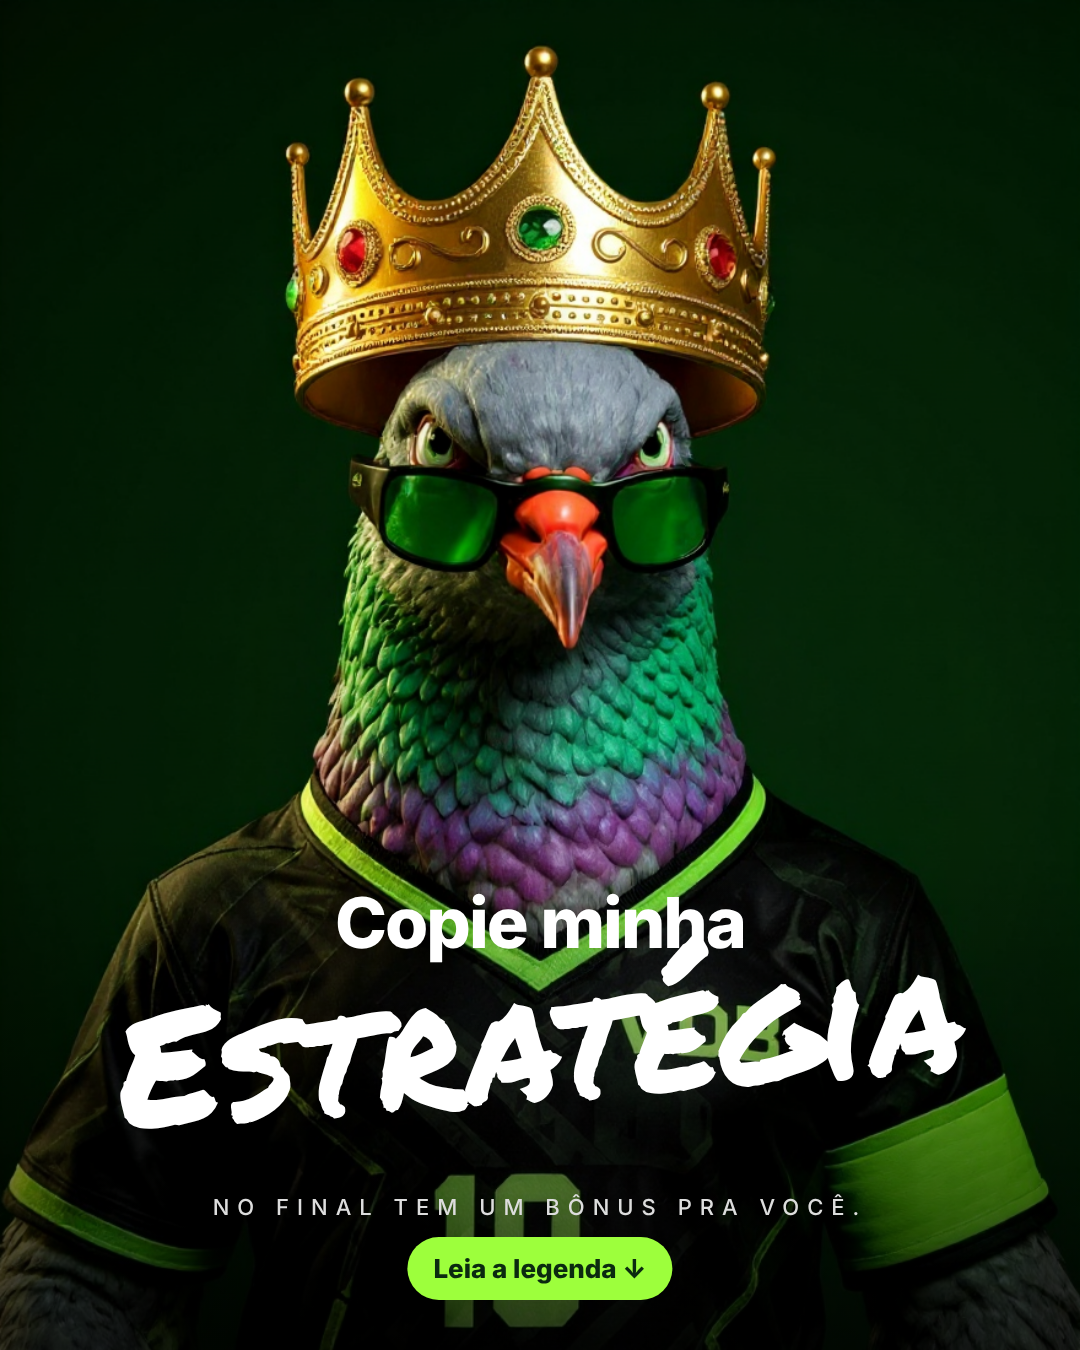
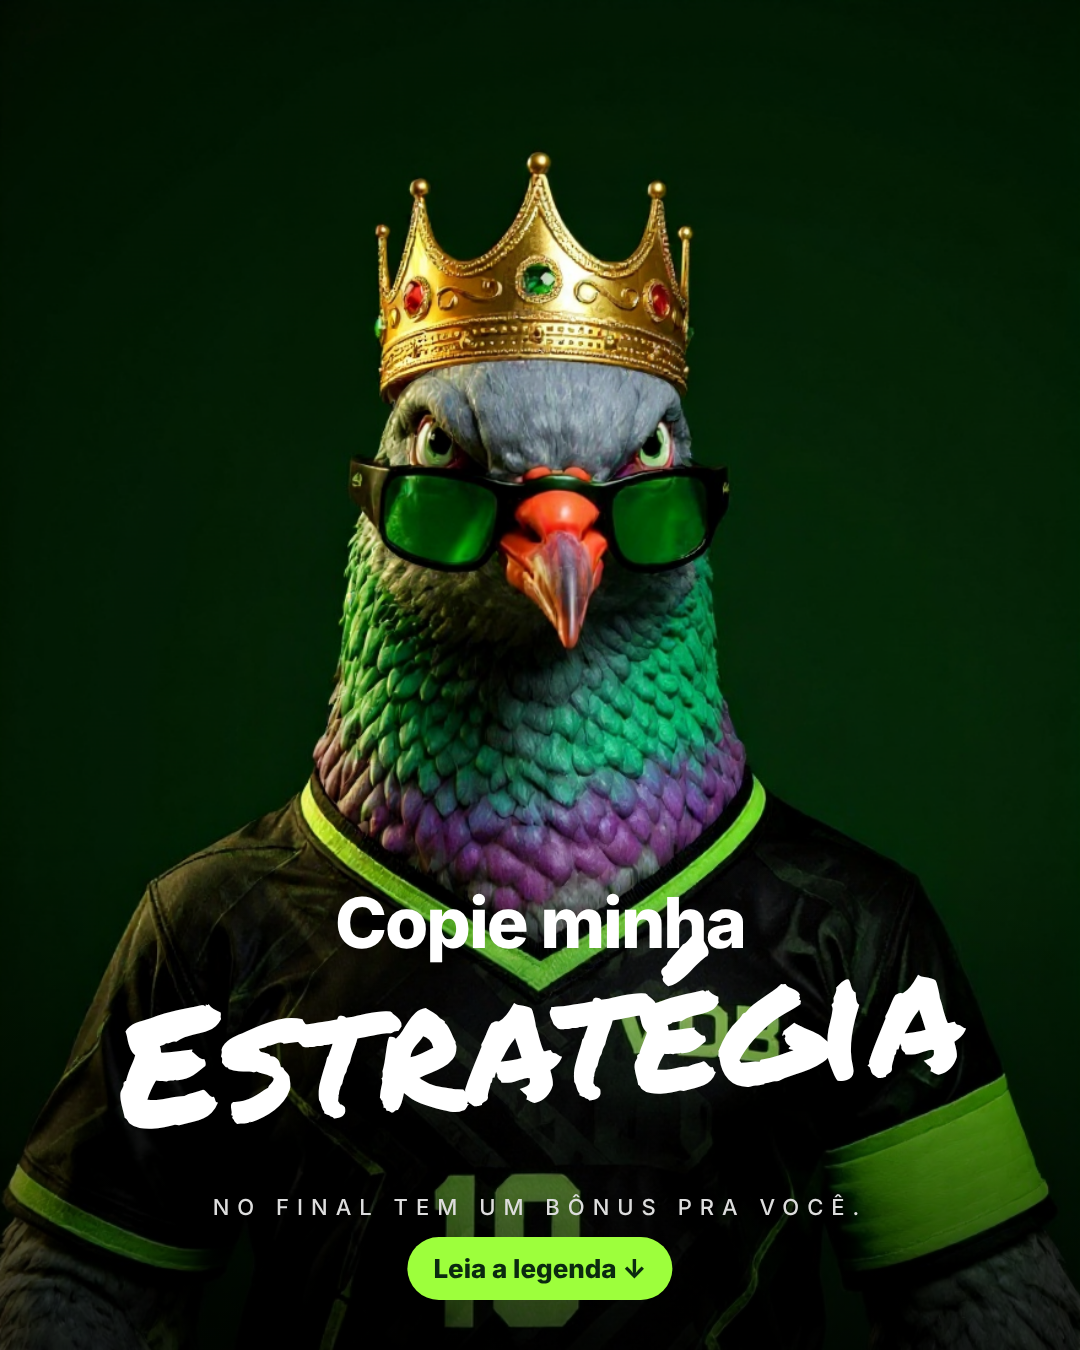
Feed estático: 4ª rodada 29, 32, 33; 30 aprovada
Claude-Session: https://claude.ai/code/session_017mkQW4f9RfZB1iSbiGkvms

Changed region(s): [[0.2444, 0.0311, 0.7333, 0.3422]]

diff --git a/banco/tpl-estatico/layout-33.html b/banco/tpl-estatico/layout-33.html
@@ -6,7 +6,7 @@ body{margin:0}#s{width:1080px;height:1350px;position:relative;overflow:hidden;ba
 .g{position:absolute;left:0;right:0;text-align:center;font:400 200px/1 A;letter-spacing:4px}
 .sub{position:absolute;left:0;right:0;top:500px;text-align:center;font:500 40px I;color:#222}.sub b{background:#e01aa8;color:#fff;font-weight:500;padding:2px 10px}
 .cta{position:absolute;left:50%;transform:translateX(-50%);bottom:50px;font:800 26px I8;padding:16px 26px;border-radius:40px;white-space:nowrap;background:#111;color:#fff}
-</style></head><body><div id=s><img src="c33c.png" style="position:absolute;inset:0;width:100%;height:100%;object-fit:cover">
+</style></head><body><div id=s><img src="c33d.png" style="position:absolute;inset:0;width:100%;height:100%;object-fit:cover">
 <div style="position:absolute;left:0;right:0;top:0;height:680px;background:linear-gradient(#E7DCC7 85%,rgba(0,0,0,0))"></div>
 <div class=g style="top:90px;color:#e01aa8">SEJA</div><div class=g style="top:290px;color:#151515">VISTO</div>
 <div class=sub>no meio da <b>multidão</b></div><div class=cta>Leia a legenda ↓</div></div></body></html>

diff --git a/banco/tpl-estatico/layout-32.html b/banco/tpl-estatico/layout-32.html
@@ -18,5 +18,5 @@ body{margin:0}#s{width:1080px;height:1350px;position:relative;overflow:hidden;ba
 .t{position:absolute;left:0;right:0;top:880px;text-align:center;font:400 300px/1 A;color:#c99a1a;letter-spacing:2px;z-index:3}
 .s{position:absolute;left:0;right:0;top:1190px;text-align:center;font:500 40px I;color:#222;z-index:3}.s b{background:#c99a1a;color:#fff;font-weight:500;padding:0 8px}
 .cta{bottom:40px;background:none;color:#a07400;text-decoration:underline;text-underline-offset:8px;font-size:30px}
-</style></head><body><div id=s><img src="c32d.png" style="position:absolute;left:115px;top:0;width:850px"><div style="position:absolute;right:0;top:0;width:260px;height:120px;background:#F3F3F3"></div>
+</style></head><body><div id=s><img src="c32f.png" style="position:absolute;left:115px;top:0;width:850px"><div style="position:absolute;right:0;top:0;width:260px;height:120px;background:#F3F3F3"></div>
 <div class=t>VENDAS</div><div class=s>para você aplicar no seu <b>negócio</b></div><div class=cta>Leia a legenda ↓</div></div></body></html>

diff --git a/banco/tpl-estatico/layout-29.html b/banco/tpl-estatico/layout-29.html
@@ -18,6 +18,6 @@ body{margin:0}#s{width:1080px;height:1350px;position:relative;overflow:hidden;ba
 .b{position:absolute;left:0;right:0;top:915px;text-align:center;font:400 165px PM;color:#fff;transform:rotate(-4deg);z-index:3}
 .c{position:absolute;left:0;right:0;bottom:130px;text-align:center;font:500 22px I;color:#ddd;letter-spacing:8px;z-index:3}
 .cta{background:#9dff3c;color:#0b2a10}
-</style></head><body><div id=s><img src="c29c.png" style="position:absolute;left:0;top:0;width:1080px">
+</style></head><body><div id=s><img src="c29d.png" style="position:absolute;left:0;top:0;width:1080px">
 <div style="position:absolute;left:0;right:0;bottom:0;height:520px;background:linear-gradient(transparent,rgba(0,0,0,.75))"></div>
 <div class=a>Copie minha</div><div class=b>Estratégia</div><div class=c>NO FINAL TEM UM BÔNUS PRA VOCÊ.</div><div class=cta>Leia a legenda ↓</div></div></body></html>

diff --git a/conhecimento/agentes/designer/22-feed-estatico-quebra-de-padrao.md b/conhecimento/agentes/designer/22-feed-estatico-quebra-de-padrao.md
@@ -117,3 +117,4 @@ Arquivos em `banco/tpl-estatico/` (`ref-N`, `layout-N.html`, `teste-N.png`).
 - **33 · Parado na multidão** (Seguidores em Alta): mascote nítido no meio de gente borrada em movimento; título em 2 cores condensado + apoio com marca-texto na cor da marca.
 - 2ª rodada 29 a 33: o mascote tem que vir EXATAMENTE como ele é (óculos, roupa, cordão), nunca uma versão genérica (pássaro sem óculos, busto de estátua sem o mascote). Fundo sem desenho quando a referência é lisa. Respeitar os tamanhos de texto da referência. Na cena de multidão, o mascote é pequeno no meio da multidão e o texto tem que fazer sentido com a cena ("SEJA VISTO no meio da multidão").
 - 3ª rodada: 29 coroa encaixada na cabeça; 30 sem resto da referência atrás do botão, marca escrita na roupa ("Central do Marketing") no lugar do rabisco; 31 aprovada; 32 borboletas viraram dinheiro voando, pernas do mascote mais grossas; 33 última tentativa: cena da referência editada (nano-banana) trocando só a pessoa, mascote pequeno no meio da multidão.
+- 4ª rodada: 29 coroa pequena encaixada; 30 APROVADA; 32 dinheiro em 3D (maços e moedas) no lugar das notas planas, listras douradas; 33 sem a pessoa original atrás do mascote (nunca deixar resto da pessoa da referência).
